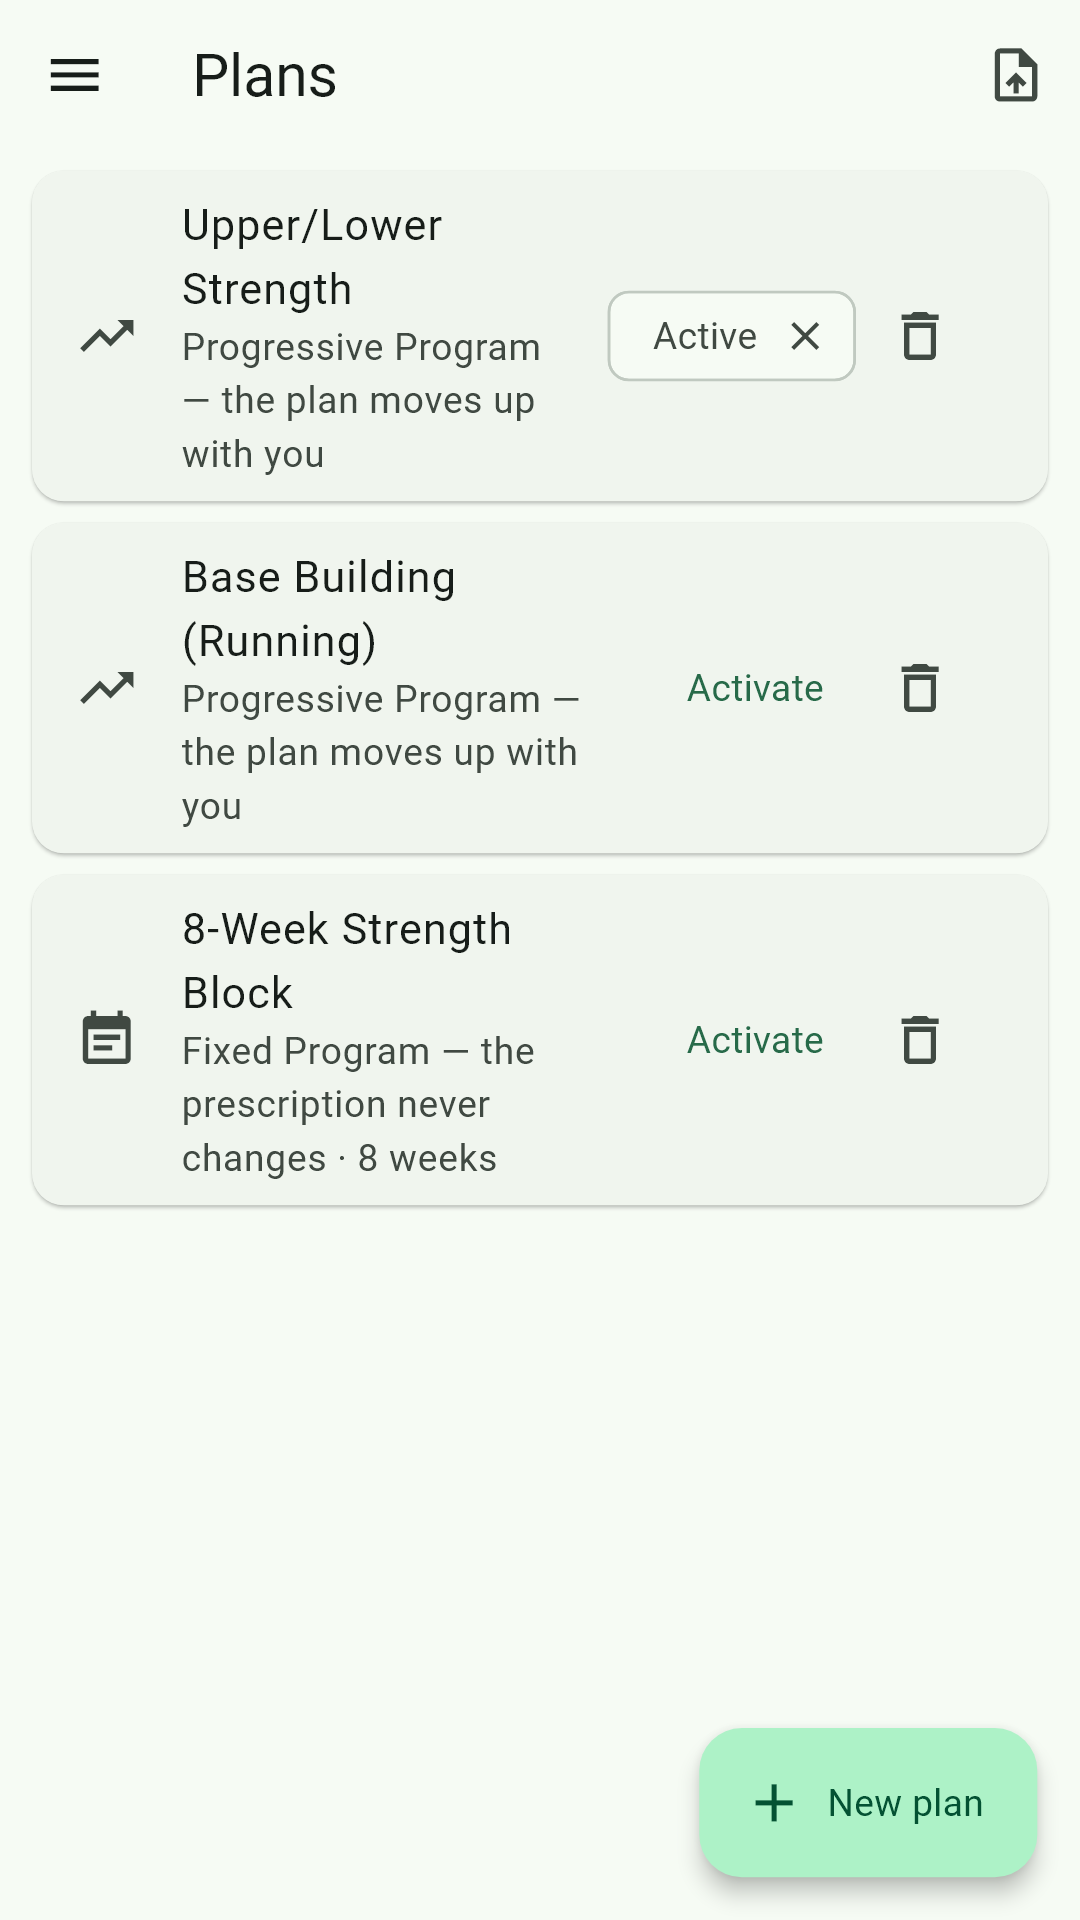
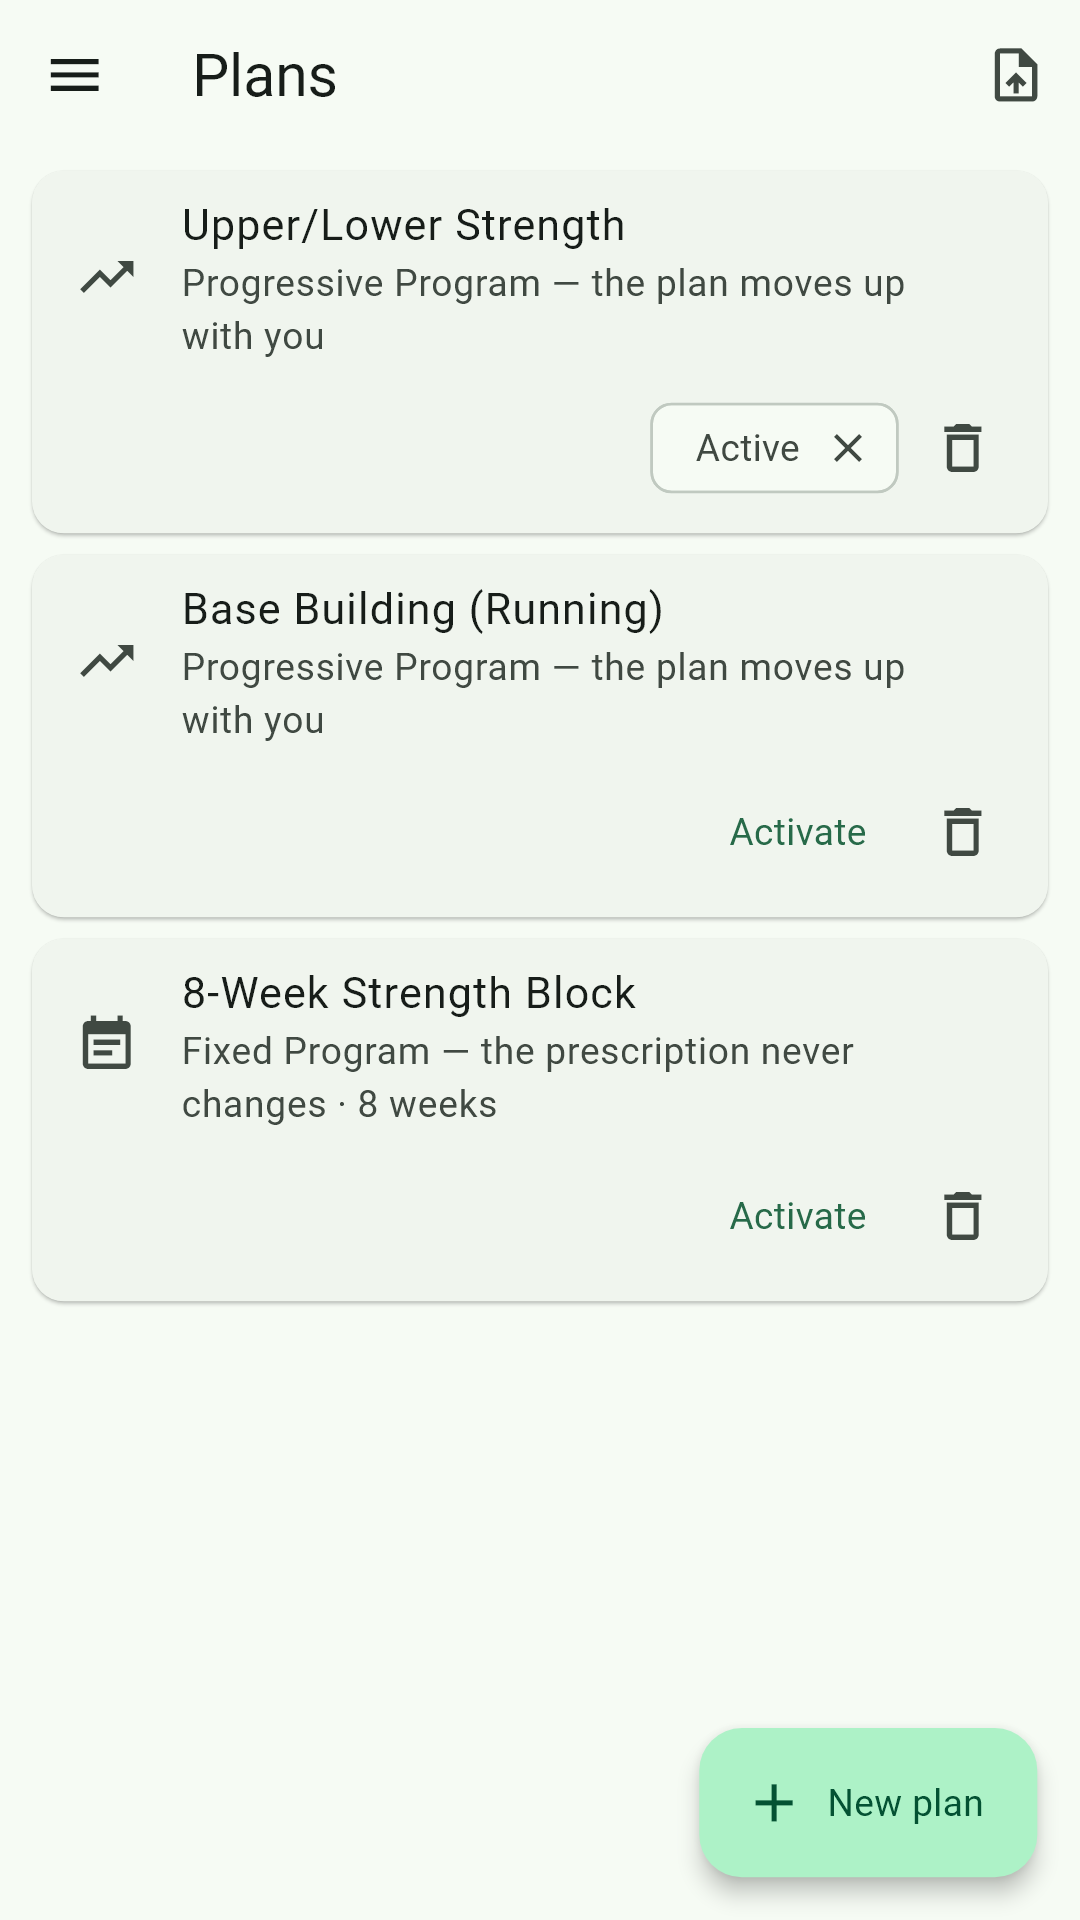
Give the plan name and mode line the full card width
A chip and an icon button in a ListTile's `trailing` claim their whole
intrinsic width, and ListTile hands it over before the title and subtitle
get a say. At phone width that left the text about a third of the card:
"Upper/Lower Strength" broke across two lines and the mode line ran to
three, so a list of three plans read as a wall.

The controls move to their own row under the tile. Nothing about them
changes — same chip, same deactivate affordance, same delete confirmation
— so the activation tests still find them by text and tooltip.

diff --git a/lib/features/plans/plans_screen.dart b/lib/features/plans/plans_screen.dart
@@ -271,43 +271,59 @@ class _PlanTile extends ConsumerWidget {
       if (plan.source == PlanSource.imported) 'imported',
     ].join(' · ');
 
+    // The controls sit on their own row rather than in the tile's `trailing`.
+    // A chip and an icon button there claim their full intrinsic width, and
+    // ListTile gives it to them, leaving the name and the mode line to wrap
+    // inside whatever narrow column is left — on a phone that broke plan names
+    // across two lines and the mode line across three.
     return Card(
       margin: const EdgeInsets.fromLTRB(12, 8, 12, 0),
-      child: ListTile(
-        leading: Icon(isStatic ? Icons.trending_up : Icons.event_note),
-        title: Text(plan.name),
-        subtitle: Text(subtitle),
-        onTap: () => Navigator.of(context).push(
-          MaterialPageRoute<void>(builder: (_) => PlanEditorScreen(plan: plan)),
-        ),
-        trailing: Row(
-          mainAxisSize: MainAxisSize.min,
-          children: [
-            if (plan.isActive)
-              // An InputChip rather than a plain one so the state can be undone
-              // where it was set. A bare Chip left activating a plan with no way
-              // back short of activating a different one or deleting it.
-              InputChip(
-                label: const Text('Active'),
-                visualDensity: VisualDensity.compact,
-                onDeleted: () =>
-                    ref.read(planRepositoryProvider).setActivePlan(null),
-                deleteIcon: const Icon(Icons.close, size: 18),
-                deleteButtonTooltipMessage: 'Deactivate',
-              )
-            else
-              TextButton(
-                onPressed: () =>
-                    ref.read(planRepositoryProvider).setActivePlan(plan.id),
-                child: const Text('Activate'),
+      child: Column(
+        crossAxisAlignment: CrossAxisAlignment.stretch,
+        children: [
+          ListTile(
+            leading: Icon(isStatic ? Icons.trending_up : Icons.event_note),
+            title: Text(plan.name),
+            subtitle: Text(subtitle),
+            onTap: () => Navigator.of(context).push(
+              MaterialPageRoute<void>(
+                builder: (_) => PlanEditorScreen(plan: plan),
               ),
-            IconButton(
-              tooltip: 'Delete',
-              icon: const Icon(Icons.delete_outline),
-              onPressed: () => _confirmDelete(context, ref),
             ),
-          ],
-        ),
+          ),
+          Padding(
+            padding: const EdgeInsets.fromLTRB(8, 0, 8, 8),
+            child: Row(
+              mainAxisAlignment: MainAxisAlignment.end,
+              children: [
+                if (plan.isActive)
+                  // An InputChip rather than a plain one so the state can be
+                  // undone where it was set. A bare Chip left activating a plan
+                  // with no way back short of activating a different one or
+                  // deleting it.
+                  InputChip(
+                    label: const Text('Active'),
+                    visualDensity: VisualDensity.compact,
+                    onDeleted: () =>
+                        ref.read(planRepositoryProvider).setActivePlan(null),
+                    deleteIcon: const Icon(Icons.close, size: 18),
+                    deleteButtonTooltipMessage: 'Deactivate',
+                  )
+                else
+                  TextButton(
+                    onPressed: () =>
+                        ref.read(planRepositoryProvider).setActivePlan(plan.id),
+                    child: const Text('Activate'),
+                  ),
+                IconButton(
+                  tooltip: 'Delete',
+                  icon: const Icon(Icons.delete_outline),
+                  onPressed: () => _confirmDelete(context, ref),
+                ),
+              ],
+            ),
+          ),
+        ],
       ),
     );
   }
